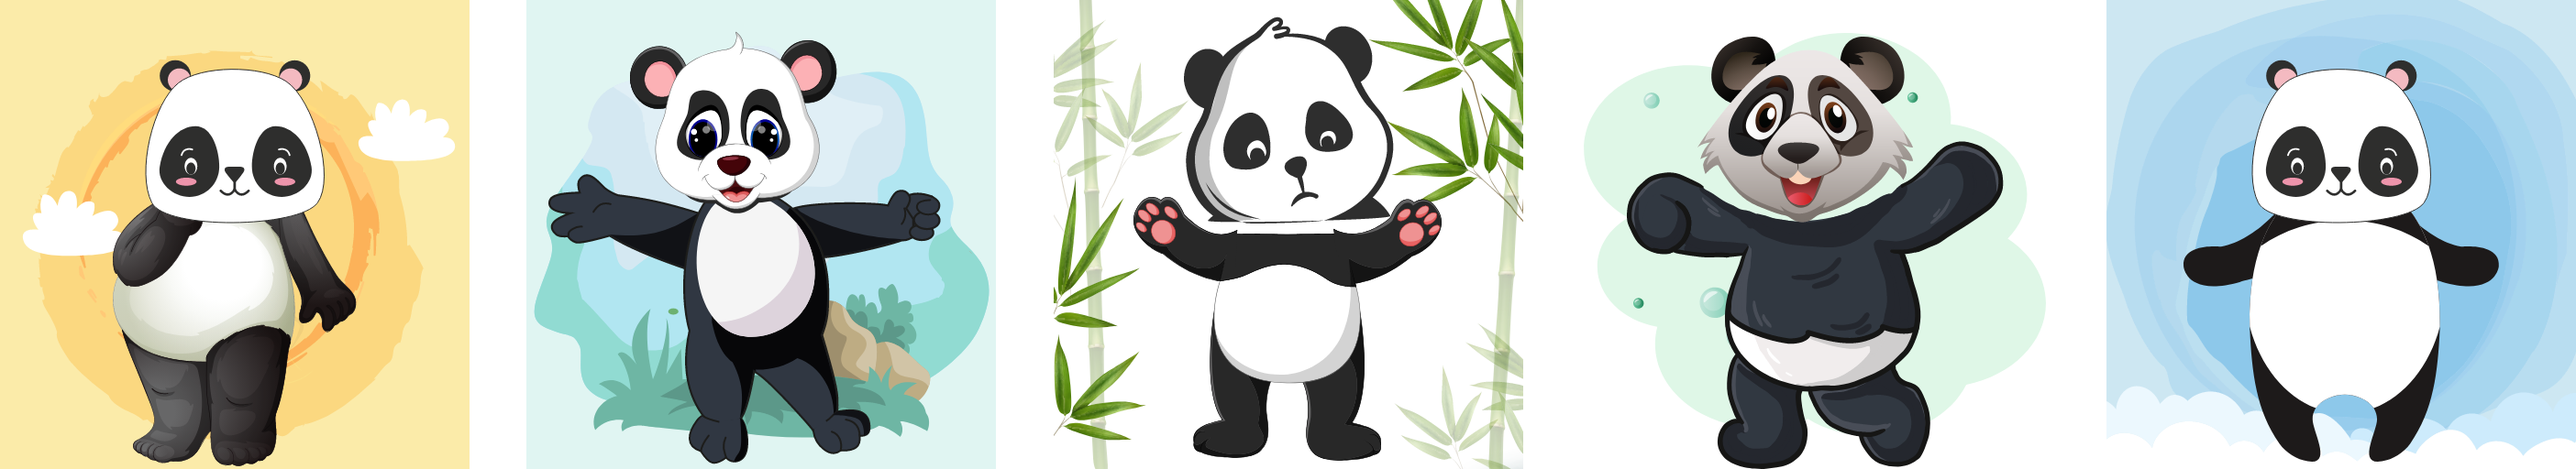
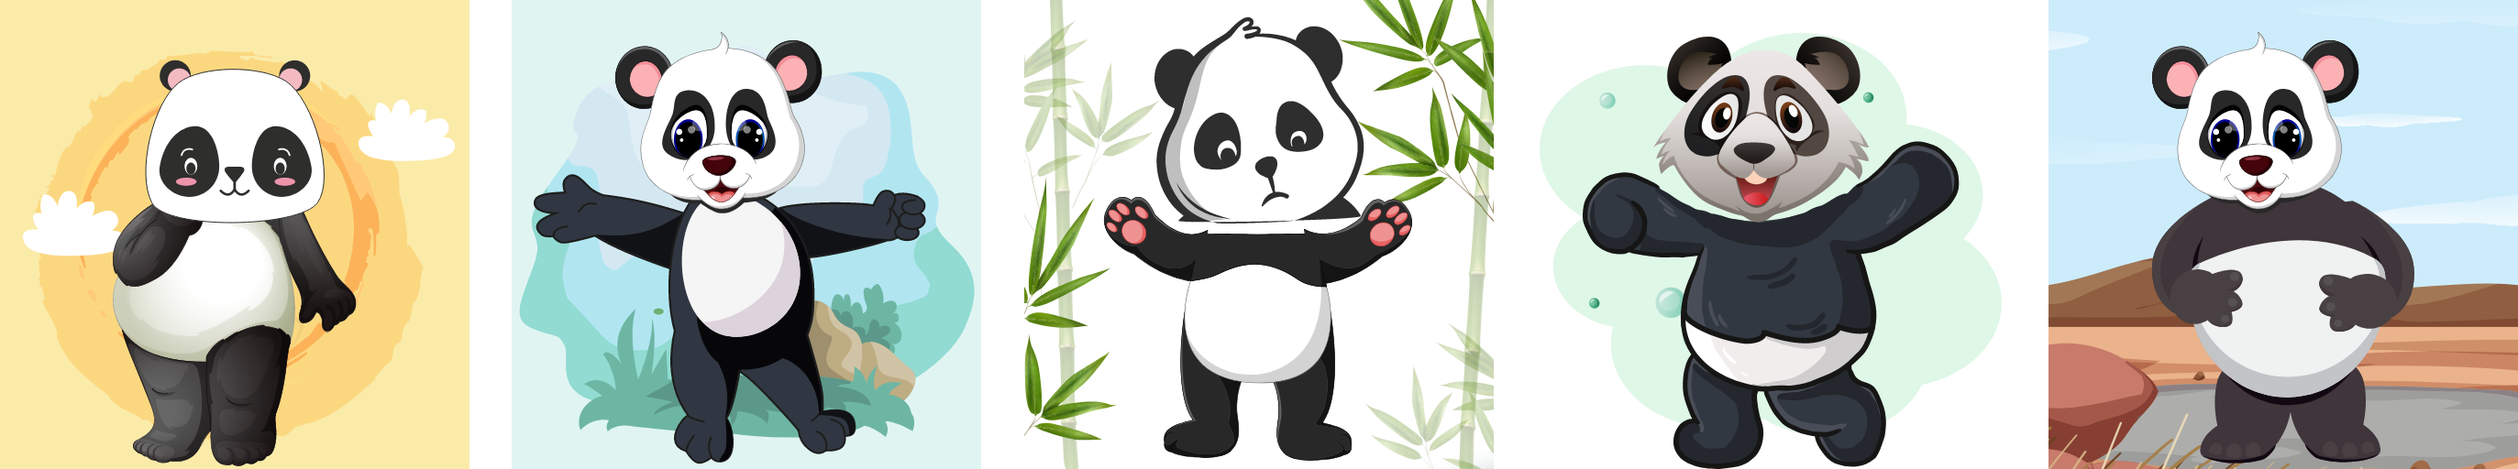
dynamic images based off screen size

diff --git a/pages/nft/[id].tsx b/pages/nft/[id].tsx
@@ -22,6 +22,10 @@ import smallPandaRow1 from '../../images/pandas_4v1.png';
 import smallPandaRow2 from '../../images/pandas_4v2.png';
 import smallPandaRow3 from '../../images/pandas_4v3.png';
 import smallPandaRow4 from '../../images/pandas_4v4.png';
+import largePandaRow1 from '../../images/pandas_5v1.png';
+import largePandaRow2 from '../../images/pandas_5v2.png';
+import largePandaRow3 from '../../images/pandas_5v3.png';
+import largePandaRow4 from '../../images/pandas_5v4.png';
 import { motion } from 'framer-motion';
 
 interface Props { collection: Collection };
@@ -234,16 +238,20 @@ function NFTDropPage({ collection }: Props) {
         {/* Panda Image Rows */}
         <div className="flex flex-col space-y-4 mt-12 overflow-hidden md:mt-16 md:space-y-8 max-w-screen-2xl w-5/6">
           <motion.div initial={{ opacity: 0, x: -200 }} whileInView={{ opacity: 1, x: 0 }} transition={{ duration: 1.5 }}>
-            <Image src={smallPandaRow1} className="object-contain" alt="" />
+            <Image src={smallPandaRow1} className="lg:hidden" alt="" />
+            <Image src={largePandaRow1} className="hidden lg:flex" alt="" />
           </motion.div>
           <motion.div initial={{ opacity: 0, x: 200 }} whileInView={{ opacity: 1, x: 0 }} transition={{ duration: 1.5 }}>
-            <Image src={smallPandaRow2} alt="" />
+            <Image src={smallPandaRow2} className="lg:hidden" alt="" />
+            <Image src={largePandaRow2} className="hidden lg:flex" alt="" />
           </motion.div>
           <motion.div initial={{ opacity: 0, x: -200 }} whileInView={{ opacity: 1, x: 0 }} transition={{ duration: 1.5 }}>
-            <Image src={smallPandaRow3} alt="" />
+            <Image src={smallPandaRow3} className="lg:hidden" alt="" />
+            <Image src={largePandaRow3} className="hidden lg:flex" alt="" />
           </motion.div>
           <motion.div initial={{ opacity: 0, x: 200 }} whileInView={{ opacity: 1, x: 0 }} transition={{ duration: 1.5 }}>
-            <Image src={smallPandaRow4} alt="" />
+            <Image src={smallPandaRow4} className="lg:hidden" alt="" />
+            <Image src={largePandaRow4} className="hidden lg:flex" alt="" />
           </motion.div>
 
         </div>
